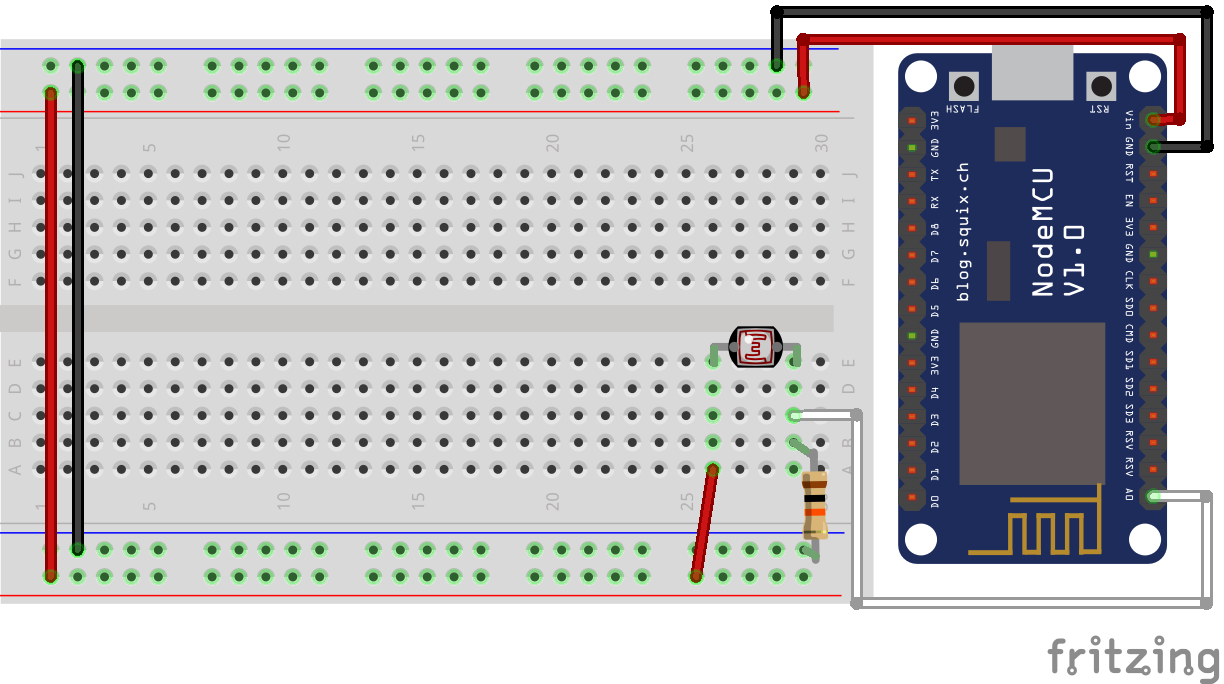
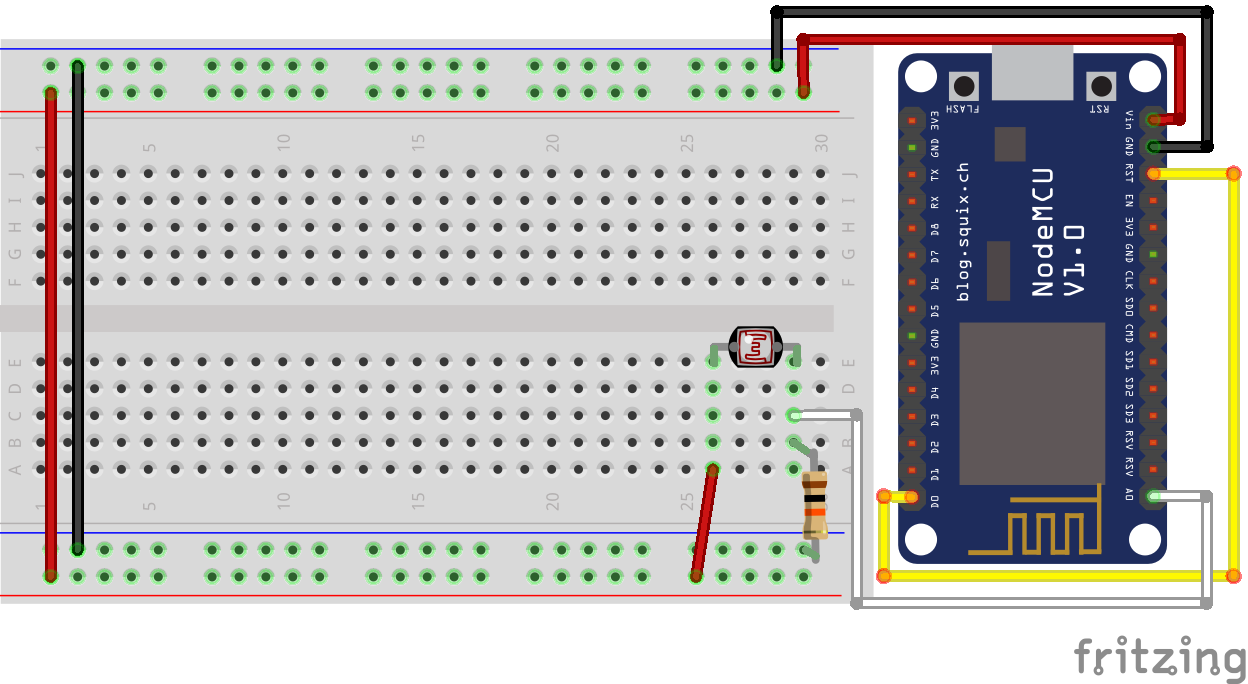
update MQTT pir example

Changed region(s): [[0.031, 0.0, 1.0, 0.8904], [0.8382, 0.9211, 1.0, 1.0]]

diff --git a/ha_mqtt_binary_sensor_pir/README.md b/ha_mqtt_binary_sensor_pir/README.md
@@ -1,5 +1,5 @@
-# ha_mqtt_binary_sensor_pir - Home-Assistant
-A simple example to use a PIR motion sensor connected to a nodeMCU board (esp8266)
+# MQTT Binary Sensor - Motion - Home-Assistant
+A simple example to use a PIR motion sensor cnnected to a NodeMCU board (ESP8266).
 
 ## Configuration
 configuration.yaml :
@@ -10,3 +10,10 @@ binary_sensor:
   name: 'Motion'
   sensor_class: motion
 ```
+
+## Schematic
+- PIR leg 1 - VCC
+- PIR leg 2 - D1/GPIO5
+- PIR leg 3 - GND
+
+![Schematic](Schematic.png)
